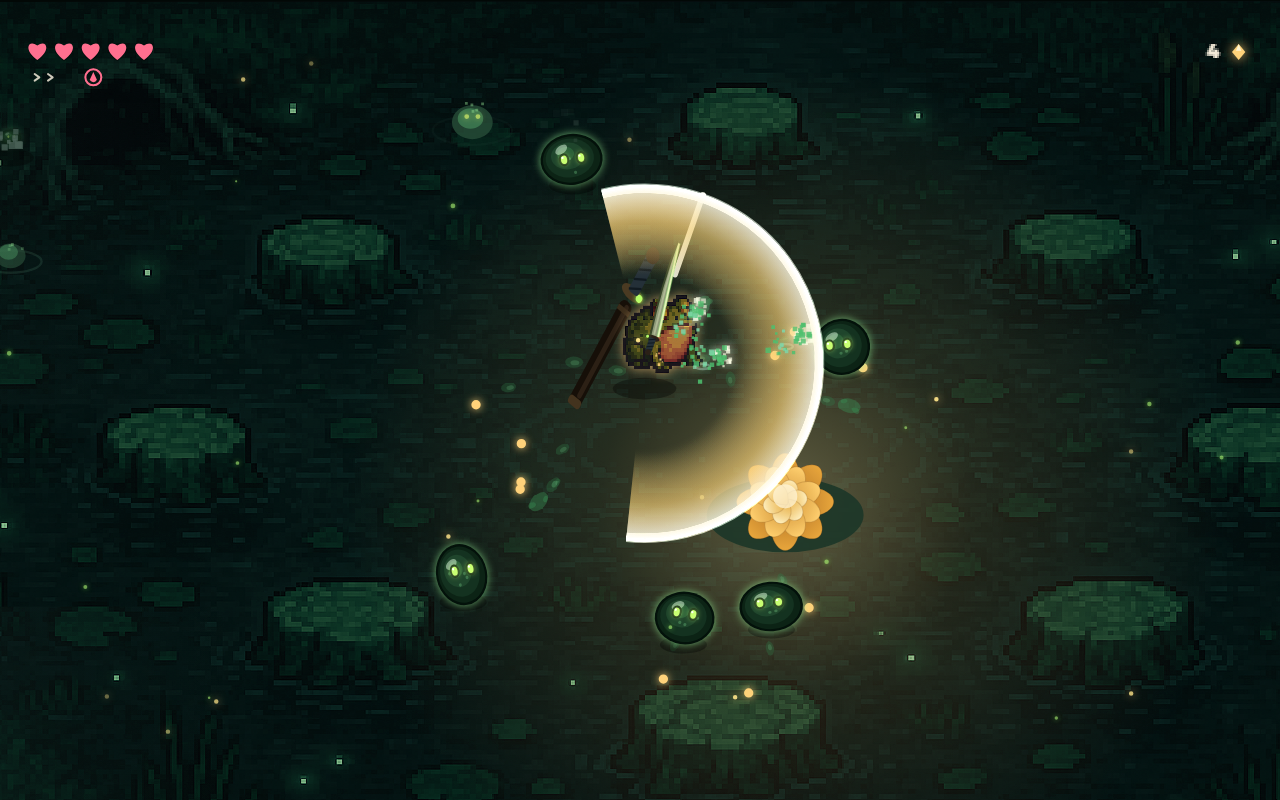
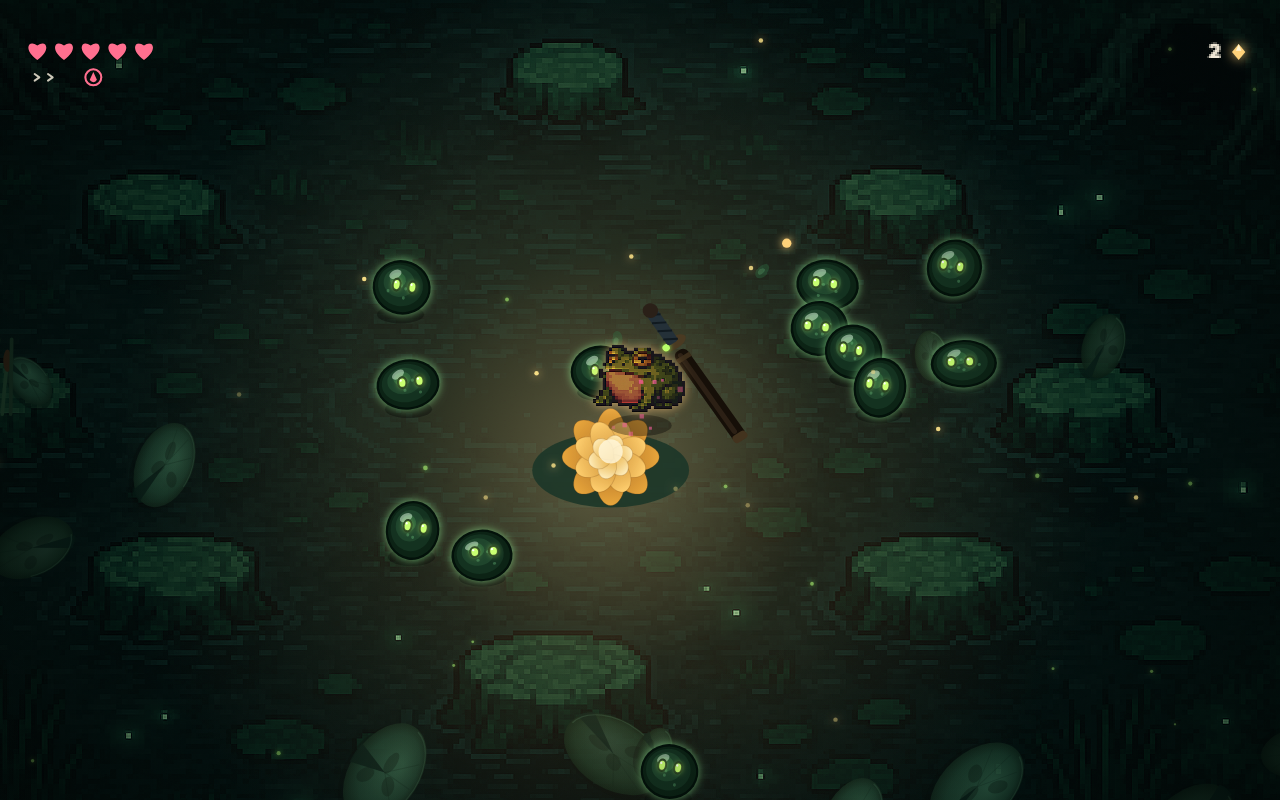
R5: lily-pad + reed pond dressing, edge vignette, warm slash VFX
- Seeded static pond-dressing layer (painterly-shaded lily pads w/ cleft+veins+mottle, swaying
  reed/cattail clusters) breaks the repeated-stump read -> reads as REF_02's lily pond.
- Screen-space vignette pushes edge backdrop props into shadow; eye stays on frog + lotus.
- Slash crescent + leading cut-line pulled off sterile pure-white to warm cream (art-lock:
  'no thin white beam attacks').

diff --git a/src/render/render.ts b/src/render/render.ts
@@ -270,6 +270,88 @@ function drawAtmosphere(ctx: CanvasRenderingContext2D, time: number) {
   }
 }
 
+// ---------- seeded static pond dressing (lily pads + reed clusters) ----------
+// The painted backdrop repeats tree-stumps; REF_02 is a LILY POND. A stable, seeded, painterly-
+// shaded dressing layer (shaded pads w/ cleft + veins + rim light, swaying reed/cattail clusters)
+// breaks the stump read and pulls the scene toward the reference — on-palette, no art regen.
+function mulberry(seed: number): () => number {
+  return () => {
+    seed |= 0; seed = (seed + 0x6d2b79f5) | 0;
+    let t = Math.imul(seed ^ (seed >>> 15), 1 | seed);
+    t = (t + Math.imul(t ^ (t >>> 7), 61 | t)) ^ t;
+    return ((t ^ (t >>> 14)) >>> 0) / 4294967296;
+  };
+}
+const dRng = mulberry(0x0a7ed3);
+const PADS = Array.from({ length: 17 }, () => {
+  let x = 0, y = 0;
+  do { x = 130 + dRng() * (ARENA_W - 260); y = 130 + dRng() * (ARENA_H - 260); }
+  while (Math.hypot(x - ARENA_W / 2, y - ARENA_H / 2) < 300);       // keep the play/lotus center clear
+  return { x, y, r: 26 + dRng() * 38, rot: dRng() * Math.PI, light: dRng() < 0.34, notch: dRng() * Math.PI * 2 };
+});
+const REEDS = Array.from({ length: 8 }, () => ({
+  x: dRng() < 0.5 ? 70 + dRng() * 240 : ARENA_W - 70 - dRng() * 240,
+  y: 150 + dRng() * (ARENA_H - 300), n: 3 + ((dRng() * 4) | 0), h: 58 + dRng() * 66, ph: dRng() * 6.28, cat: dRng() < 0.5,
+}));
+
+function drawPondDressing(ctx: CanvasRenderingContext2D, time: number) {
+  // lily pads
+  for (const p of PADS) {
+    ctx.save();
+    ctx.translate(p.x, p.y);
+    ctx.rotate(p.rot);
+    ctx.scale(1, 0.64);                                            // top-down foreshorten
+    // cast shadow on the water
+    ctx.fillStyle = 'rgba(2,10,8,0.32)';
+    ctx.beginPath(); ctx.ellipse(4, 6, p.r, p.r, 0, 0, Math.PI * 2); ctx.fill();
+    // body — radial shade (lit center -> dark rim), on-palette teal-green
+    const g = ctx.createRadialGradient(-p.r * 0.22, -p.r * 0.24, p.r * 0.12, 0, 0, p.r);
+    g.addColorStop(0, p.light ? '#356b50' : '#274a38');
+    g.addColorStop(0.7, p.light ? '#204a37' : '#183726');
+    g.addColorStop(1, p.light ? '#122d20' : '#0d2418');
+    ctx.globalAlpha = 0.85;                                         // sit IN the water, not on top
+    ctx.fillStyle = g;
+    ctx.beginPath(); ctx.arc(0, 0, p.r, 0, Math.PI * 2); ctx.fill();
+    // subtle dark mottle so it reads painterly, not a smooth vector disc
+    ctx.fillStyle = 'rgba(8,24,17,0.4)';
+    for (let i = 0; i < 3; i++) {
+      const a = p.notch * 2 + i * 2.1, rr = p.r * (0.3 + i * 0.2);
+      ctx.beginPath(); ctx.ellipse(Math.cos(a) * rr * 0.7, Math.sin(a) * rr * 0.7, p.r * 0.22, p.r * 0.15, a, 0, Math.PI * 2); ctx.fill();
+    }
+    // cleft notch (the lily-pad V) — a narrow dark water wedge
+    ctx.fillStyle = '#08201a';
+    ctx.beginPath(); ctx.moveTo(0, 0);
+    ctx.arc(0, 0, p.r + 2, p.notch - 0.2, p.notch + 0.2); ctx.closePath(); ctx.fill();
+    // a couple of faint veins (not a full pizza fan)
+    ctx.strokeStyle = 'rgba(10,32,24,0.32)'; ctx.lineWidth = 1.1;
+    for (let i = 0; i < 3; i++) {
+      const a = p.notch + Math.PI + (i - 1) * 0.6;
+      ctx.beginPath(); ctx.moveTo(0, 0); ctx.lineTo(Math.cos(a) * p.r * 0.85, Math.sin(a) * p.r * 0.85); ctx.stroke();
+    }
+    // faint rim highlight, top-left
+    ctx.strokeStyle = 'rgba(120,190,150,0.2)'; ctx.lineWidth = 1.6;
+    ctx.beginPath(); ctx.arc(0, 0, p.r - 2, Math.PI * 1.05, Math.PI * 1.6); ctx.stroke();
+    ctx.restore();
+  }
+  // reed / cattail clusters
+  for (const rd of REEDS) {
+    ctx.save();
+    ctx.translate(rd.x, rd.y);
+    for (let i = 0; i < rd.n; i++) {
+      const off = (i - rd.n / 2) * 9;
+      const sway = Math.sin(time * 1.1 + rd.ph + i) * 6;
+      const h = rd.h * (0.75 + (i % 2) * 0.3);
+      ctx.strokeStyle = i % 2 ? '#1c3a28' : '#254c33'; ctx.lineWidth = 4; ctx.lineCap = 'round';
+      ctx.beginPath(); ctx.moveTo(off, 0); ctx.quadraticCurveTo(off + sway * 0.5, -h * 0.6, off + sway, -h); ctx.stroke();
+      if (rd.cat && i === (rd.n >> 1)) {                          // cattail head
+        ctx.fillStyle = '#3a2817';
+        ctx.beginPath(); ctx.ellipse(off + sway, -h, 4.5, 12, 0, 0, Math.PI * 2); ctx.fill();
+      }
+    }
+    ctx.restore();
+  }
+}
+
 // ---------- water ripples (concentric rings expanding on the pond surface) ----------
 function drawRipples(ctx: CanvasRenderingContext2D) {
   for (const rp of ripples) {
@@ -357,13 +439,13 @@ function drawSlashFx(ctx: CanvasRenderingContext2D, time: number): void {
     ctx.closePath();
     const g = ctx.createRadialGradient(0, 0, r0, 0, 0, r1);
     g.addColorStop(0, `rgba(${hot},0)`);
-    g.addColorStop(0.6, `rgba(${hot},${0.28 * fade})`);
-    g.addColorStop(1, `rgba(255,255,245,${0.5 * fade})`);
+    g.addColorStop(0.6, `rgba(${hot},${0.3 * fade})`);
+    g.addColorStop(1, `rgba(255,238,198,${0.5 * fade})`);   // warm cream, not sterile white
     ctx.fillStyle = g;
     ctx.fill();
-    // razor-thin ultra-bright leading edge at the arc's far side
+    // razor-thin bright leading edge at the arc's far side (warm-white so it reads as a hot blade)
     ctx.globalCompositeOperation = 'lighter';
-    ctx.strokeStyle = `rgba(255,255,248,${0.9 * fade})`;
+    ctx.strokeStyle = `rgba(255,236,190,${0.85 * fade})`;
     ctx.lineWidth = (s.kind === 'heavy' ? 5 : 3) * (1 - k * 0.4);
     ctx.beginPath(); ctx.arc(0, 0, r1, s.a0, s.a1); ctx.stroke();
     ctx.restore();
@@ -416,6 +498,7 @@ export function draw(ctx: CanvasRenderingContext2D, w: World, cw: number, ch: nu
   ctx.globalCompositeOperation = 'soft-light';
   ctx.fillStyle = '#3aa07f'; ctx.globalAlpha = 0.42; ctx.fillRect(0, 0, ARENA_W, ARENA_H);
   ctx.restore();
+  drawPondDressing(ctx, time);       // lily pads + reeds ON the graded water (breaks the stump read)
   drawLotus(ctx, time);
   if (decalCanvas) ctx.drawImage(decalCanvas, 0, 0);
   drawRipples(ctx);
@@ -512,6 +595,14 @@ export function draw(ctx: CanvasRenderingContext2D, w: World, cw: number, ch: nu
   drawAtmosphere(ctx, time);
 
   ctx.restore();
+
+  // screen-space vignette: darken the corners so the repeated backdrop props at the edges recede
+  // into shadow and the eye stays on the lit frog + lotus (REF_02's edges fall off to near-black).
+  const vig = ctx.createRadialGradient(cw / 2, ch / 2, ch * 0.34, cw / 2, ch / 2, ch * 0.92);
+  vig.addColorStop(0, 'rgba(2,10,8,0)');
+  vig.addColorStop(1, 'rgba(1,6,5,0.62)');
+  ctx.fillStyle = vig;
+  ctx.fillRect(0, 0, cw, ch);
 
   // HUD is a fixed screen-space overlay (independent of the follow-camera), anchored top-left
   drawHud(ctx, w, cw, ch, fit, 0, 0, time, paused);
@@ -720,7 +811,7 @@ function drawSwordAt(ctx: CanvasRenderingContext2D, w: World, time: number) {
     ctx.fill();
     // bright leading edge — the blade's current cut line
     ctx.globalAlpha = 1;
-    ctx.strokeStyle = `rgba(255,255,242,${0.9 * (1 - p * 0.3)})`;
+    ctx.strokeStyle = `rgba(255,240,202,${0.9 * (1 - p * 0.3)})`;   // warm hot-blade edge, not white
     ctx.lineWidth = heavy ? 6 : 4; ctx.lineCap = 'round';
     ctx.beginPath();
     ctx.moveTo(Math.cos(a1) * r0, Math.sin(a1) * r0);

diff --git a/docs/GRADES.md b/docs/GRADES.md
@@ -43,6 +43,32 @@ Honest, externally-verifiable gate status. No self-graded passes. See `design/11
 
 **Still OPEN for R3:** HUD cluster reads debug (all blinds+art+creative) — redesign; frog katana bigger/readable + brighter core; enemy variety visible; connect an anticipation/follow-through pose; env depth/brightness; capsule capture polish.
 
+### Round 3 — 2026-07-08 (wider katana + slime muting)  ·  avg 6.1 (FLAT / net-regressed)
+Two changes hurt the stills: widening the katana made it read as a spear, and over-muting the
+slimes flattened them. Both reverted (katana narrowed back at drawSwordAt; slime palette re-shaded).
+Diagnosis: numeric tuning had plateaued — the caps were STRUCTURAL (palette, enemy value, HUD).
+
+### Round 4 — 2026-07-08 (structural batch — break the plateau)
+Fixes: (1) runtime **teal atmosphere grade** on the painted backdrop → REF_02 deep-teal palette
+(was warm brown/purple); (2) **enemies → near-black silhouettes** carried by glowing eyes + rim
+(was mint bodies breaking palette); (3) **minimal floating HUD** (hearts L / essence-gem R / pips),
+killed the debug panel. Also fixed the QA camera-aim bug (shoot.mjs now reads the live `__view`).
+
+| Critic | Score (Δ vs R2) | Headline |
+|---|---|---|
+| Judge 1 — Art | 7.5 (+1.5) | Palette + enemies now premium & on-ref; repeated stumps + pure-white heavy crescent cap it |
+| Judge 2 — Animation | 7.5 (+1.5) | Frog weight/squash good, swing reads, enemies have glow-eye life; wants anticipation-pose variety |
+| Judge 3 — Feel | 8.0 (+1.5) | Carnage frame has real impact language — sparks, telegraph ring, essence drops, readable arcs |
+| Judge 4 — Creative | 8.0 (+0.5) | Reads as a real moody $15 indie now; environment content variety is the ceiling |
+| Blind 1 | 7.5 (+1.5) | Moody + alive; glowing eyes creepy-cute; lotus pretty; background stumps repeat |
+| Blind 2 | 7.0 (+1.5) | Pretty & alive; bg feels same-y; heavy swing flash a touch bright |
+| **AVERAGE** | **7.6 (+1.35)** | Plateau BROKEN. Palette/enemy/HUD caps cleared. |
+
+**Top-3 for R5:** (1) environment content — repeated tree-stumps are the last big "not the reference";
+add on-palette lily-pad / reed / cattail dressing + push stumps into vignette shadow. (2) slash VFX
+colour — pull the heavy/finisher crescent off pure-white toward warm-gold/lime (+ pink impact accent).
+(3) frog read — nudge sleepier/plumper toward REF_02's heavy-lidded slump.
+
 ---
 
 ## Phase 1 — The Swing Test  ·  STATUS: CORE PROVEN, GATE NOT PASSED
